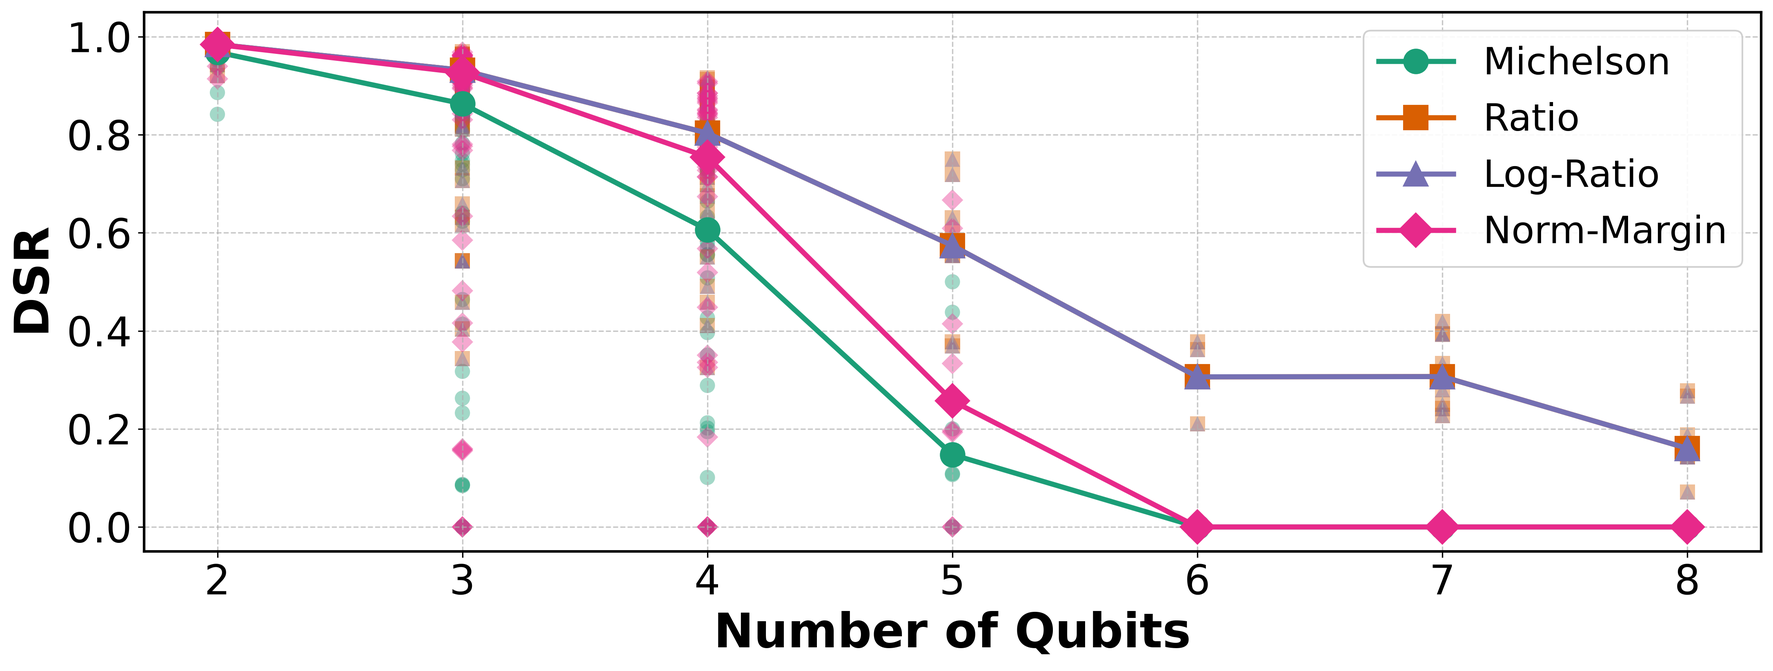
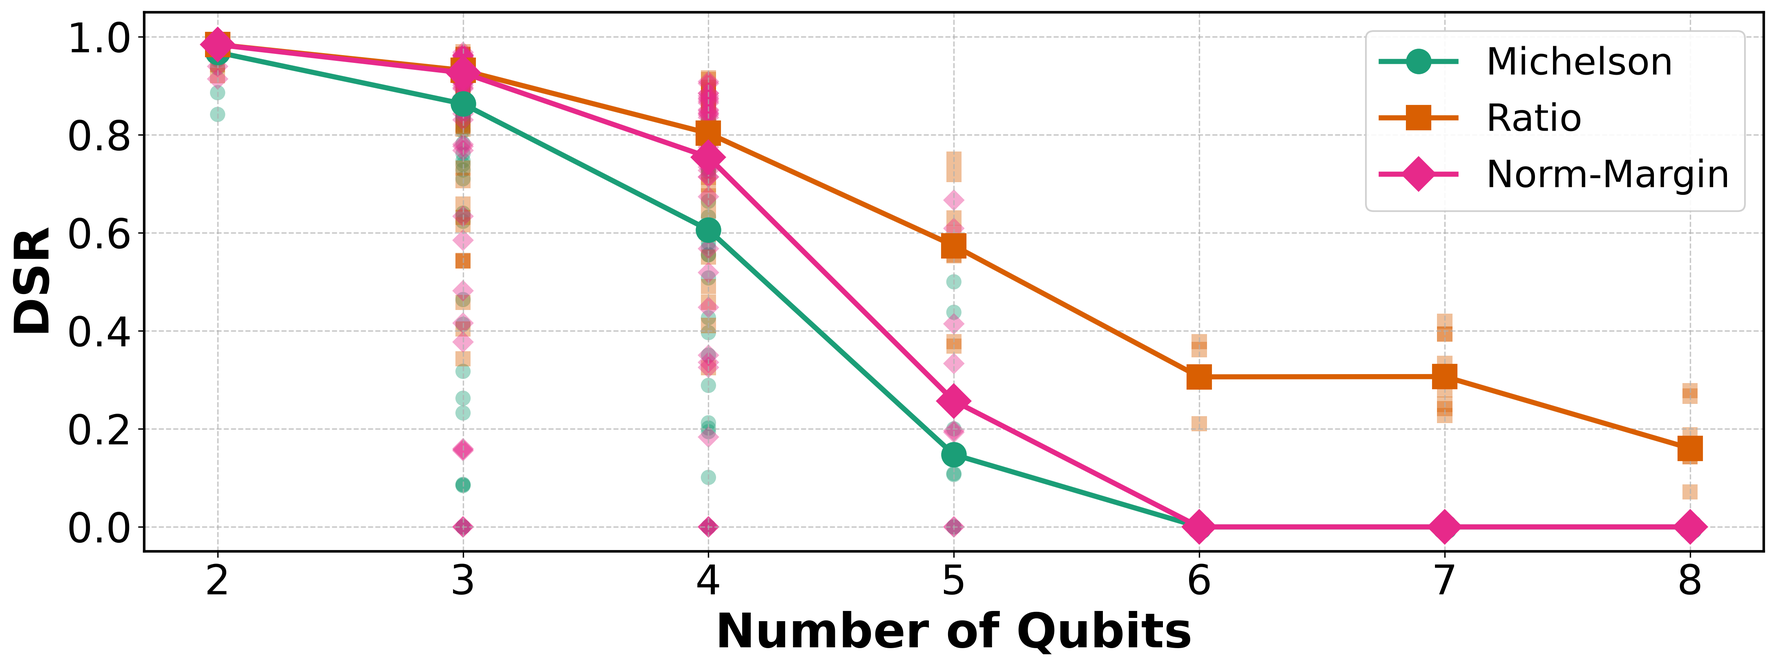
Remove log-ratio DSR variant and update paper draft accordingly
- Drop the Log-Ratio DSR formulation from the Springer paper draft because it is algebraically equivalent to the Ratio variant.
- Update the variant table, equations, discussion, and Grover figure caption to reflect only Michelson, Ratio, and Norm-Margin.
- In `differential_success_rate_analysis.py`, remove Log-Ratio from plotting, add per-variant marker mapping, and regenerate the Grover DSR variants plot.
- Add a label to the Hellinger Fidelity subsection and tighten related PST/TVD wording.

diff --git a/qward/examples/papers/main-springer.tex b/qward/examples/papers/main-springer.tex
@@ -146,9 +146,9 @@ Probability of successful trials (PST) \cite{mohapatraBenchmarkingFidelityMetric
 
 The main limitation of PST is that its definition modifies the structure of the original circuit. Since calculating PST requires the circuit and its inverse, the total depth of the circuit is doubled, thereby amplifying the impact of errors. In addition, standard PST employs a binary classification for success; because it only checks if the output matches the expected initial state (e.g., an all-zero output), an outcome with a single bit-flip error is penalized in the exact same way as one in which every bit is corrupted.
 
-PST can also avoid constructing a broad ideal output distribution before applying a fidelity-like score. However, it is important to note that PST evaluations are focused on the success of the operation $U^{\dagger}U$, they do not evaluate the agreement between the measured and ideal output of ~$U$. It additionally increases the complexity of the circuit by incorporating the inverse operation, and it also employs an all-zero target state, which can be susceptible to the qubits relaxation process. This strategy is therefore useful as a validation technique, but does not replace direct analysis of the quantum program result.
+PST can also avoid constructing a broad ideal output distribution before applying a fidelity-like score. However, it is important to note that PST evaluations are focused on the success of the operation $U^{\dagger}U$, they do not evaluate the agreement between the measured and ideal output of ~$U$. The all-zero target state can also be susceptible to the qubits relaxation process. This strategy is therefore useful as a validation technique, but does not replace direct analysis of the quantum program result.
 
-\subsection{Hellinger Fidelity}
+\subsection{Hellinger Fidelity}\label{sec:hellinger-fidelity}
 
 Hellinger fidelity (HF) is a metric recommended for algorithms like the Quantum Approximate Optimization Algorithm (QAOA) \cite{zhouQuantumApproximateOptimization_2020}, where the ideal solution is a probability distribution spread over many different basis states. HF is calculated by comparing the expected distribution with the returned outcome distribution, returning a 1 if both are identical or 0 if there is no overlap.
 
@@ -158,7 +158,7 @@ The major limitation of HF \cite{mohapatraBenchmarkingFidelityMetrics_2025} lies
 
 The total variation distance (TVD) \cite{knillBoundsApproximationTotal_1995, bhattacharyyaApproximatingTotalVariation_2023} is a metric that shares similarities with HF. Both metrics are particularly suitable for algorithms whose ideal output is a probability distribution with values spread over many states. What makes TVD unique is its mathematical approach to histogram comparison, which is defined as half the sum of the absolute differences between the corresponding probabilities. By definition, a TVD value of 0 indicates identical distributions, while a value of 1 means completely different. However, for consistency with other fidelity metrics, TVD is often reported as $TVDF = 1 - TVD$.
 
-Similarly, TVD shares the limitations of HF: a high computational overhead due to the need to estimate the ideal probability distribution, a limited sensitivity to errors in circuits whose ideal output is concentrated on a small number of dominant states, and a fundamental inability to capture information about phase-related errors.
+Similarly, TVD shares the limitations of HF described in Section~\ref{sec:hellinger-fidelity} regarding the ideal reference distribution, sensitivity to errors, and phase information.
 
 These limitations motivate direct evaluation of target distinction for quantum jobs with known expected outcomes.
 
@@ -239,7 +239,7 @@ DSR is therefore a continuous score rather than a binary metric. Equation~\eqref
 
 \subsection{Alternative formulations}
 
-Beyond the Michelson expression provided in Equation~\eqref{eq:dsr}, we analyzed three additional contrast functions using the collected data set (refer to Section~\ref{subsec:experiment} for details). The goal was to benchmark all formulations to ultimately identify the most suitable option. Table~\ref{tab:dsr_variants} reports the candidate formulations considered.
+Beyond the Michelson expression provided in Equation~\eqref{eq:dsr}, we analyzed two additional contrast functions using the collected data set (refer to Section~\ref{subsec:experiment} for details). The goal was to benchmark all formulations to ultimately identify the most suitable option. Table~\ref{tab:dsr_variants} reports the candidate formulations considered.
 
 %% Table: DSR variant formulations
 \begin{table}
@@ -250,7 +250,6 @@ Beyond the Michelson expression provided in Equation~\eqref{eq:dsr}, we analyzed
 \midrule
 Michelson       & Eq.~\eqref{eq:dsr}       & $[0,\,1]$ \\
 Ratio           & Eq.~\eqref{eq:dsr_ratio}  & $[0,\,1]$ \\
-Log-Ratio       & Eq.~\eqref{eq:dsr_log}    & $[0,\,1]$ \\
 Norm-Margin     & Eq.~\eqref{eq:dsr_nm}     & $[0,\,1]$ \\
 \botrule
 \end{tabular}
@@ -264,16 +263,6 @@ The \emph{ratio} variant normalizes the expected probability by the total probab
 \frac{\bar{p}_{\text{exp}}}
      {\bar{p}_{\text{exp}} + p_{\text{comp}}},\; 0,\; 1\right)
 \end{equation}
-
-The \emph{log-ratio} variant applies a sigmoid function $\sigma(z)=1/(1+e^{-z})$ to the logarithmic ratio of the two peaks, mapping the result to the interval $[0,1]$:
-
-\begin{equation}
-\label{eq:dsr_log}
-\mathrm{DSR}_{\text{log}} = \mathrm{clip}\!\left(
-\sigma\!\left(\ln \frac{\bar{p}_{\text{exp}}}{p_{\text{comp}}}\right),\; 0,\; 1\right)
-\end{equation}
-
-For zero-valued peaks, we use the continuous limits of Equation~\eqref{eq:dsr_log}. The log-ratio variant is assigned 0 when $\bar{p}_{\mathrm{exp}}=0$ and $p_{\mathrm{comp}}>0$, and 1 when $\bar{p}_{\mathrm{exp}}>0$ and $p_{\mathrm{comp}}=0$. The invalid case in which both values are zero follows the convention established for DSR and is reported as 0.
 
 The \emph{normalized margin} variant divides the difference between the two peaks by the larger of the two:
 
@@ -291,11 +280,11 @@ The \emph{normalized margin} variant divides the difference between the two peak
 \caption{DSR variants for the Grover algorithm as a function of the number of qubits (IBM backends).}\label{fig:dsr_variants}
 \end{figure}
 
-Figure~\ref{fig:dsr_variants} reports the median DSR of each variant for Grover's algorithm as a function of the number of qubits, using the highest level of transpilation optimization. Grover is shown because its wide qubit range (2--8) best illustrates the discriminative differences among formulations.
+Figure~\ref{fig:dsr_variants} reports the median DSR of each variant for Grover's algorithm as a function of the number of qubits, across all transpilation optimization levels. Grover is shown because its wide qubit range (2--8) best illustrates the differences among formulations.
 
-Both the Michelson (teal line) and the normalized-margin (pink line) variants decrease monotonically and reach~$0$ at six qubits; however, Michelson drops more sharply in the $3$--$5$ qubit range, providing an earlier indication of performance degradation. The log-ratio (purple line) and ratio (orange line) variants exhibit a slower decline and still report values of approximately $0.2$--$0.4$ at six to eight qubits, where the expected outcome no longer stands out in the histogram. This behavior fails to expose the distinction boundary and reduces the ability of the score to differentiate the peak separation from complete loss of the expected outcome.
+Both the Michelson (teal line) and the normalized-margin (pink line) variants decrease monotonically and reach~$0$ at six qubits; however, Michelson reports lower scores in the $3$--$5$ qubit range. Both formulations share the distinction boundary defined in Equation~\eqref{eq:dsr_boundary}. The ratio (orange line) variant exhibits a slower decline and still reports values of approximately $0.16$--$0.31$ at six to eight qubits, where the expected outcome no longer stands out in the histogram. In this formulation, equal expected and competing peaks produce a score of~$0.5$, rather than~$0$.
 
-Based on this analysis, we select the Michelson formulation to compute the DSR. In summary, the Michelson formulation is defined in the interval $[0,1]$ and is the first variant to indicate loss of expected-outcome distinction, making its zero boundary directly interpretable.
+Based on this analysis, we select the Michelson formulation to compute the DSR. In summary, the Michelson formulation expresses the difference between the expected and competing peaks relative to their sum, returning a score in $[0,1]$ with a directly interpretable zero boundary.
 
 \section{Experiment setup}\label{subsec:experiment}
 
@@ -305,7 +294,7 @@ To test Grover's search algorithm, we created different configurations of the ci
 
 To evaluate the QFT algorithm, we set the algorithm in two ways. In the first case, \emph{round-trip} mode, the circuit applies the QFT followed by its inverse, so that a correct execution returns the original input state (similar to what we describe in Section~\ref{sec:density-matrix}). In the second configuration, \emph{period-detection} mode, the circuit encodes a signal with a known period~$p$ on $n$~qubits and then applies the QFT. The transform reveals the frequency content of the signal, producing peaks at the positions $k \cdot N/p$ for $k = 0, 1, \ldots, p{-}1$, where $N = 2^n$.
 
-To evaluate BV, we used alternating secret strings with the bit pattern $1010\ldots$ and determined whether the measured query register returned the expected string. The study included a scalability ladder from 2 to 14~query qubits and three larger configurations of 29, 30, and 31~query qubits.
+To evaluate BV, we used alternating secret strings with the bit pattern $1010\ldots$ and determined whether the measured query register returned the expected string.
 
 We additionally designed the BVsb experiment to evaluate a multi-target circuit whose ideal output is not a delta distribution. The circuit assigns an ideal probability mass of~$0.90$ to two analytically known basis states and the remaining~$0.10$ to a broad, non-uniform background. A branch qubit is measured during execution, and a classically controlled block applies the background operations when the measured branch value is one. This construction keeps the expected set~$E$ analytically available to DSR while requiring the broad ideal distribution for exact HF and TVDF.
 
@@ -337,9 +326,9 @@ BVsb & Signal-background experiment & BVSB27--BVSB29 & $n_{\mathrm{tot}}=27$--$2
 \end{tabular}
 \end{table}
 
-For the Grover algorithm, the \emph{scalability} study (S2--S14) uses a single marked state while growing the number of qubits from 2 to 14, expanding the bit-length of the marked state (e.g., $\ket{01}$ for 2~qubits, $\ket{0110}$ for 4~qubits, $\ket{01100110}$ for 8~qubits). The \emph{marked-count} study (M3, M4) fixes the number of qubits at 3 and 4, respectively, and varies the number of marked states (1, 2, and 4) in order to assess whether the size of~$E$ influences the score. The \emph{Hamming-weight} study (H3, H4) varies the Hamming weight (i.e., the number of ones) of the marked state for 3- and 4-qubit systems. Finally, the \emph{symmetry} study (SYM, ASYM) fixes the number of qubits to 3 and evaluates whether the symmetry of the marked states affects the output.
+For the Grover algorithm, the \emph{scalability} study (S2--S14) uses a single marked state while growing the number of qubits, expanding the bit-length of the marked state (e.g., $\ket{01}$ for 2~qubits, $\ket{0110}$ for 4~qubits, $\ket{01100110}$ for 8~qubits). The \emph{marked-count} study (M3, M4) fixes the number of qubits at 3 and 4, respectively, and varies the number of marked states (1, 2, and 4) in order to assess whether the size of~$E$ influences the score. The \emph{Hamming-weight} study (H3, H4) varies the Hamming weight (i.e., the number of ones) of the marked state for 3- and 4-qubit systems. Finally, the \emph{symmetry} study (SYM, ASYM) fixes the number of qubits to 3 and evaluates whether the symmetry of the marked states affects the output.
 
-For the QFT algorithm, the \emph{round-trip scalability} study (SR2--SR10) grows the register from~2 to~10 qubits, extending the input state (e.g., $\ket{01}$ for 2~qubits, $\ket{0110}$ for 4~qubits, $\ket{01100110}$ for 8~qubits). The \emph{period-detection scalability} study (SP3--SP6) increases the qubit count from~3 to~6 while fixing the period, so that the number of possible output states grows, but the number of expected peaks remains constant. The \emph{period-variation} study (PV4, PV6) does the opposite, fixing the qubit count at~4 or~6 and varying the period, which increases the number of expected peaks and makes them harder to resolve. The \emph{input-variation} study (IV4) fixes the qubit count at~4 in round-trip mode and tests five different input states ($\ket{0000}$, $\ket{1111}$, $\ket{0101}$, $\ket{1010}$, $\ket{0001}$).
+For the QFT algorithm, the \emph{round-trip scalability} study (SR2--SR10) grows the register from~2 to~10 qubits, extending the input state with the same bit pattern used for Grover. The \emph{period-detection scalability} study (SP3--SP6) increases the qubit count while fixing the period, so that the number of possible output states grows, but the number of expected peaks remains constant. The \emph{period-variation} study (PV4, PV6) does the opposite, fixing the qubit count at~4 or~6 and varying the period, which increases the number of expected peaks and makes them harder to resolve. The \emph{input-variation} study (IV4) fixes the qubit count at~4 in round-trip mode and tests five different input states ($\ket{0000}$, $\ket{1111}$, $\ket{0101}$, $\ket{1010}$, $\ket{0001}$).
 
 For BV, the \emph{alternating-secret scalability} study grew the alternating secret string from 2 to 14~query qubits. The \emph{large alternating-secret} study used the same pattern at 29, 30, and 31~query qubits, each with one additional ancilla, to evaluate DSR beyond the dense statevector simulation limit of the experiment machine. The BVsb experiment used 27, 28, and 29 total qubits, corresponding to 26, 27, and 28 measured qubits, respectively. Each configuration retained two analytically specified expected outcomes while increasing the size of the broad ideal distribution.
 
@@ -383,7 +372,7 @@ Finally, as reported in our previous study \cite{vTPMarquez_2026}, vTP achieves 
 
 \subsection{DSR versus depth}\label{subsec:dsr_depth}
 
-Figures~\ref{fig:combined_depth_ibm} and~\ref{fig:combined_depth_aws} present the DSR distribution grouped by circuit depth bins of 100~gates on IBM and Rigetti, respectively. To define the bins in these plots, we use all optimization levels for IBM, because the data spans a wide range of circuit depths and the final transpiled circuits change with the optimization. Therefore, to properly capture the DSR degradation, we chose to include all available IBM data.
+Figures~\ref{fig:combined_depth_ibm} and~\ref{fig:combined_depth_aws} present the DSR distribution grouped by circuit depth bins of 100~gates on IBM and Rigetti, respectively. We use all optimization levels for IBM to capture the range of depths produced by the transpiled circuits.
 
 %% Figure: combined DSR vs depth (IBM)
 \begin{figure}[ht]
@@ -420,7 +409,7 @@ Figure~\ref{fig:qft_heatmap} displays a heatmap of the median DSR of QFT executi
 \caption{Heatmap of median DSR of QFT runs by number of qubits and optimization level (IBM backends). Darker green indicates higher DSR.}\label{fig:qft_heatmap}
 \end{figure}
 
-At the optimization level~0, the median DSR is low from 2~qubits ($0.38$) and collapses to near zero by 5--6~qubits. At level~1, the DSR improves substantially (e.g., $0.89$ at 3~qubits), but still degrades to~$0.18$ at 10~qubits. The behavior of levels 0 and 1 of optimization is consistent with the expected error accumulation output degradation. The DSR therefore displays lower values as more operations introduce sufficient error to degrade the expected output.
+At the optimization level~0, the median DSR is low from 2~qubits ($0.38$) and collapses to near zero by 5--6~qubits. At level~1, the DSR improves substantially (e.g., $0.89$ at 3~qubits), but still degrades to~$0.18$ at 10~qubits. This behavior is consistent with output degradation due to error accumulation.
 
 Levels~2 and~3 exhibit comparable performance, with DSR values above~$0.80$ up to 5~qubits and a gradual decline afterward. The difference between them is small (e.g. $0.56$ vs. \ $0.51$ at 6~qubits), suggesting that the level~3 of optimization provides only a marginal improvement over the level~2.
 
@@ -430,7 +419,7 @@ The heatmap also reveals an anomaly at the optimization level~0 for 7--8~qubits,
 
 To position DSR relative to existing fidelity metrics, we calculated HF and TVDF ($1-\mathrm{TVD}$) for QPU runs within simulator capacity. In general, both metrics require an ideal outcome histogram. Our pipeline obtained this histogram through a dense statevector simulation by computing the corresponding probability vector. On the Apple~M3~Pro laptop with 18 GB of unified memory used for the experiment, this procedure exhausted the available memory after completing the 26-qubit simulation. This boundary is specific to experimental conditions; analytic methods, tensor networks, or machines with more memory may extend it. Consequently, our experiment pipeline could not compute HF or TVDF beyond 26 qubits, whereas DSR remained computable under the information requirements defined in Section~\ref{sec:dsr}.
 
-Figures~\ref{fig:grover_metric_comparison} and~\ref{fig:grover_metric_comparison_aws} present the three metrics side by side as a function of the number of qubits for Grover on the IBM and Rigetti backends, respectively.\footnote{The vTP results are excluded from this comparison because its DSR drops to ~$0.00$ by 2~payload qubits, leaving insufficient data for a meaningful cross-metric analysis at the qubit counts where Grover and QFT still exhibit differentiated behavior.} Figure~\ref{fig:bv_metric_comparison} shows the alternating secret BV configurations on IBM backends at optimization level~3. HF and TVDF were computed using dense statevector simulation for the scalability study ($n\leq 14$), but the full ideal distributions were not generated for the larger configurations ($n=29$, $30$, and~$31$; total qubits~$n{+}1$). BV configurations between $n=15$ and~$28$ were not evaluated.
+Figures~\ref{fig:grover_metric_comparison} and~\ref{fig:grover_metric_comparison_aws} present the three metrics side by side as a function of the number of qubits for Grover on the IBM and Rigetti backends, respectively.\footnote{The vTP results are excluded from this comparison because its DSR drops to ~$0.00$ by 2~payload qubits, leaving insufficient data for a meaningful cross-metric analysis at the qubit counts where Grover and QFT still exhibit differentiated behavior.} Figure~\ref{fig:bv_metric_comparison} shows the alternating secret BV configurations on IBM backends at optimization level~3. HF and TVDF were computed for the scalability study ($n\leq 14$). BV configurations between $n=15$ and~$28$ were not evaluated.
 
 Because the BV comparison also includes the raw success rate, we first define this baseline. The success rate measures the fraction of shots whose outcomes belong to the expected set~$E$. Using the histogram $\mathcal{C}$ and the total number of shots~$S$, it is defined as
 
@@ -485,7 +474,7 @@ For Grover on IBM (Figure~\ref{fig:grover_metric_comparison}), all three metrics
 \caption{Comparison of DSR (teal), success rate (pink), HF (orange), and TVDF (purple) across alternating secret BV configurations executed on IBM backends.}\label{fig:bv_metric_comparison}
 \end{figure}
 
-For BV on IBM (Figure~\ref{fig:bv_metric_comparison}), the metrics remain close to their upper bounds for $n \leq 6$ (median DSR~$\approx 0.90$--$0.97$), with narrow interquartile ranges. This behavior emerges because the shallow alternating secret circuits (transpiled depth~$\approx 13$--$15$) concentrate the majority of measurement shots on the expected output bitstring---for $n=2$, for example, the success probability is~$\approx 0.98$. Beginning at $n=7$, the dispersion increases, while the success rate decreases; HF and TVDF decline faster than DSR while the expected peak continues to be modal. Beyond the dense statevector simulation limit (dashed line; $\approx$26~total qubits in this experiment), the figure reports DSR and raw success rate for $n=29$, $30$, and~$31$. HF and TVDF are omitted because the full ideal distributions were not generated, even though Equations~\eqref{eq:hf_bv} and~\eqref{eq:tvdf_bv} permit their analytic recovery for these single target jobs. BV configurations were not evaluated from $n=15$ to~$n=28$.
+For BV on IBM (Figure~\ref{fig:bv_metric_comparison}), the metrics remain close to their upper bounds for $n \leq 6$ (median DSR~$\approx 0.90$--$0.97$), with narrow interquartile ranges. This behavior emerges because the shallow alternating secret circuits (transpiled depth~$\approx 13$--$15$) concentrate the majority of measurement shots on the expected output bitstring---for $n=2$, for example, the success probability is~$\approx 0.98$. Beginning at $n=7$, the dispersion increases, while the success rate decreases; HF and TVDF decline faster than DSR while the expected peak continues to be modal. Beyond the dense statevector simulation limit (dashed line), the figure reports DSR and raw success rate for $n=29$, $30$, and~$31$. HF and TVDF are omitted because the full ideal distributions were not generated, even though Equations~\eqref{eq:hf_bv} and~\eqref{eq:tvdf_bv} permit their analytic recovery for these single target jobs.
 
 For the $n=29$ configuration of the BV algorithm, the expected state is the most frequent outcome in all nine runs of 1{,}024 shots, despite a success rate of only $8.8\%$--$14.5\%$ (median $11.1\%$). DSR ranges from~$0.58$ to~$0.78$, with a median of~$0.62$, because the expected state is 4--8 times more frequent than its strongest competitor. Across all jobs, the expected state represents $11.4\%$ of the shots, while no competitor exceeds $2.1\%$.
 
@@ -539,9 +528,9 @@ For the 27--29-qubit QPU configurations, the expected set remains analytically k
 
 As shown in Table~\ref{tab:bv_signal_background}, the mean success rate decreases from~$0.73\%$ at 27 total qubits to~$0.10\%$ at $29$ total qubits. These non-zero values indicate that some shots reach the expected set, but they do not establish that the two expected states stand out from the competing outcomes. DSR is positive in only one of the $30$ jobs, with a value of~$0.20$ at $27$ total qubits. In that job, the expected state count is $15$, compared to a mean of~$6.67$ across the other jobs. At the same time, the strongest competitor receives $5$ shots, compared to a mean of~$7.44$ in the other jobs. All $10$ jobs share the same transpiled circuit and recorded calibration snapshot. In the positive job, the branch qubit selected the signal path in $90.1\%$ of the shots, close to the intended $90\%$, and the number of distinct outcomes remained close to the batch values. No recorded execution condition therefore explains the difference. Because the second expected state remains absent, the positive score is best interpreted as a joint finite-shot fluctuation near the DSR distinction boundary rather than a stable recovery of the target signal.
 
-Figure~\ref{fig:bv_signal_background_histogram} shows the 40 most frequent outcomes of this DSR~$=0.20$ job, ordered from highest to lowest shot count. Green identifies the observed expected target, pink identifies the strongest outcome outside the expected set, and gray identifies the remaining displayed competitors. The ellipsis indicates that the histogram continues beyond the displayed outcomes. The top 40 outcomes contain 129 shots; the remaining 858 observed outcomes contain 895 shots, giving the complete total of $129+895=1{,}024$ shots across 898 distinct outcomes. The second expected target received zero shots and therefore does not appear among the observed bars.
+Figure~\ref{fig:bv_signal_background_histogram} shows the 40 most frequent outcomes of this DSR~$=0.20$ job, ordered from highest to lowest shot count. The job contains 1{,}024 shots across 898 distinct outcomes, with 129 shots in the top 40. The second expected target received zero shots and therefore does not appear among the observed bars.
 
-The first expected target is the modal outcome with $15$ shots, whereas the second expected target receives no shots. Since the two expected outcomes have equal weight, their mean measured probability is
+The first expected target is the modal outcome with $15$ shots. Since the two expected outcomes have equal weight, their mean measured probability is
 \begin{equation}
     \bar{p}_{\text{exp}}
     = \frac{1}{2}\left(\frac{15}{1024}+\frac{0}{1024}\right)
@@ -557,16 +546,16 @@ The strongest competing outcome receives five shots, so $p_{\text{comp}}=5/1024\
     = 0.20.
 \end{equation}
 
-Thus, although one expected target is absent, the average expected peak remains above every individual competitor and produces a small positive DSR. The result also illustrates why the presence of the target alone is insufficient, since the expected outcomes must remain distinguishable from the strongest competing peak.
+Thus, although one expected target is absent, the average expected peak remains above every individual competitor and produces a small positive DSR.
 
 %% Figure: BVsb DSR=0.20 histogram (IBM)
 \begin{figure}[ht]
 \centering
 \includegraphics[width=0.9\textwidth]{plots/1_bv_signal_background_dsr_histogram_ibm.png}
-\caption{Top-40 outcome frequencies for the single BVsb job that scored $\mathrm{DSR}=0.20$ on \textit{ibm\_marrakesh} at 27 total qubits. The ellipsis denotes the remaining observed outcomes.}\label{fig:bv_signal_background_histogram}
+\caption{Top-40 outcome frequencies for the single BVsb job that scored $\mathrm{DSR}=0.20$ on \textit{ibm\_marrakesh} at 27 total qubits. Green identifies the observed expected target, pink the strongest competitor, and gray the remaining displayed outcomes. The ellipsis denotes the remaining observed outcomes.}\label{fig:bv_signal_background_histogram}
 \end{figure}
 
-For the smaller BVsb circuits, all metrics could be calculated and produced different values. For the configurations with 27, 28, and 29 total qubits, the mean percentages of shots selecting the zero branch were $90.6\%$, $90.2\%$, and $91.3\%$, respectively. Although this behavior is close to the intended $90\%$, DSR equals zero in 29 of the 30 jobs. DSR remained available, but the ideal background probabilities could not be generated by our simulation workflow. Therefore, these executions do not establish that DSR performs better than HF or TVDF.
+For the configurations with 27, 28, and 29 total qubits, the mean percentages of shots selecting the zero branch were $90.6\%$, $90.2\%$, and $91.3\%$, respectively. Although this behavior is close to the intended $90\%$, DSR equals zero in 29 of the 30 jobs. DSR remained available, but the ideal background probabilities could not be generated by our simulation workflow. Therefore, these executions do not establish that DSR performs better than HF or TVDF.
 
 \subsection{Cross-provider metric comparison}
 
@@ -579,9 +568,9 @@ For the smaller BVsb circuits, all metrics could be calculated and produced diff
 
 For Grover on Rigetti Ankaa-3 (Figure~\ref{fig:grover_metric_comparison_aws}), the three metrics agree at 2~qubits (medians above~$0.90$). However, at 3~qubits ($n=40$) the DSR falls to~$0.00$, while the HF retains a median of~$0.25$ and TVDF~$0.20$ ($p_{\text{corr}} < 0.001$; $\delta = -0.93$ and $-0.89$, respectively). The same pattern continues at 4~qubits, where DSR stays at~$0.00$ while HF reports~$0.25$, and TVDF~$0.15$ ($\delta = -1.00$ and $-0.84$). This discrepancy occurs because the noise level of Ankaa-3 causes the strongest competing peak to match the average probability of the expected outcomes ($\bar{p}_{\text{exp}}$), pushing the DSR to zero. In contrast, HF and TVDF, which evaluate the intersection of the probability distribution, still detect partial overlap.
 
-Comparing the two providers reveals that DSR exhibits a zero-boundary response associated with the noise level of the backend. In several IBM Heron~R2 jobs\footnote{IBM Quantum Platform, backend calibration data: \url{https://quantum.cloud.ibm.com/computers}. Accessed February 2026.}, where the two-qubit gate errors are approximately $2.6 \times 10^{-3}$ and readout errors $1.3 \times 10^{-2}$, DSR descriptively remains above HF and TVDF while the expected peaks dominate. In contrast, for Rigetti Ankaa-3\footnote{Rigetti Quantum Cloud Services, QPU specifications: \url{https://qcs.rigetti.com/qpus}. Accessed February 2026.}, where typical two-qubit gate errors are roughly twice as large ($5 \times 10^{-3}$) and readout errors reach $2 \times 10^{-2}$, DSR is the first metric to reach zero (Grover at 3~qubits: $\delta = -0.93$, $p_{\text{corr}} < 0.001$). These calibration values provide hardware context rather than a controlled causal explanation of the difference. The observed asymmetry is consistent with expected outcomes standing above the strongest competitor until this peak separation collapses and DSR reaches the distinction boundary at zero. In contrast, HF and TVDF, which are derived from distributional overlap, exhibit a more continuously declining performance profile.
+Comparing the two providers reveals that DSR exhibits a zero-boundary response associated with the noise level of the backend. In several IBM Heron~R2 jobs\footnote{IBM Quantum Platform, backend calibration data: \url{https://quantum.cloud.ibm.com/computers}. Accessed February 2026.}, where the two-qubit gate errors are approximately $2.6 \times 10^{-3}$ and readout errors $1.3 \times 10^{-2}$, DSR descriptively remains above HF and TVDF while the expected peaks dominate. In contrast, for Rigetti Ankaa-3\footnote{Rigetti Quantum Cloud Services, QPU specifications: \url{https://qcs.rigetti.com/qpus}. Accessed February 2026.}, where typical two-qubit gate errors are roughly twice as large ($5 \times 10^{-3}$) and readout errors reach $2 \times 10^{-2}$, DSR is the first metric to reach zero. These calibration values provide hardware context rather than a controlled causal explanation of the difference.
 
-The QFT results (Table~\ref{tab:stat_comparison}) exhibit the early collapse behavior observed in Grover. In IBM, the $4$ jobs at 5~qubits give a median DSR of~$0.82$ versus~$0.65$ for HF and TVDF, while the two jobs at 10~qubits give~$0.28$ versus~$0.13$. At 6~qubits, where eight jobs are available, the three metrics become comparable ($p_{\text{corr}} = 0.766$, $\delta = 0.00$). On the Rigetti platform, the QFT exhibits an early collapse analogous to that observed for Grover's algorithm. At 4 qubits ($n=25$), DSR falls to ~$0.00$, whereas HF and TVDF remain at~$0.29$ ($p_{\text{corr}} = 0.008$, $\delta = -0.45$). At 5 qubits, the discrepancy becomes even more pronounced ($p_{\text{corr}} = 0.003$, $\delta = -0.72$).
+The QFT results (Table~\ref{tab:stat_comparison}) exhibit the early collapse behavior observed in Grover. In IBM, the $4$ jobs at 5~qubits give a median DSR of~$0.82$ versus~$0.65$ for HF and TVDF, while the two jobs at 10~qubits give~$0.28$ versus~$0.13$. At 6~qubits, where eight jobs are available, the three metrics become comparable ($p_{\text{corr}} = 0.766$, $\delta = 0.00$). On the Rigetti platform, at 4 qubits ($n=25$), DSR falls to ~$0.00$, whereas HF and TVDF remain at~$0.29$ ($p_{\text{corr}} = 0.008$, $\delta = -0.45$). At 5 qubits, the discrepancy becomes even more pronounced ($p_{\text{corr}} = 0.003$, $\delta = -0.72$).
 
 %% Table: full statistical comparison (wide -> sidewaystable).
 %% This 12-column table is too wide for the single-column text block, so it is
@@ -644,7 +633,7 @@ The experimental results (Section~\ref{sec:results}) show that DSR characterizes
 
 In this paper, we introduce the Differential Success Rate (DSR), a score designed to assess the output of quantum algorithms. The DSR quantifies how distinctly a predefined set of expected outcomes stands out within the measurement histogram of a quantum job. To this end, the DSR adopts the Michelson contrast formulation to create a normalized score within the interval $[0, 1]$, indicating whether the expected outcomes dominate the strongest competing peak.
 
-In the initial part of this study, four different formulations are evaluated to identify the one that most clearly exposes the distinction boundary across quantum executions. The Michelson formulation is selected over the ratio, logarithmic ratio, and normalized margin methods because of its wider dynamic range and interpretable zero boundary.
+In the initial part of this study, three different formulations are evaluated to characterize their response across quantum executions. The Michelson formulation is selected over the ratio and normalized margin methods because it expresses expected-outcome distinction as a bounded contrast with an interpretable zero boundary.
 
 To empirically evaluate DSR, we computed it for 1{,}478 quantum jobs executed across multiple QPUs accessed through IBM Quantum and Rigetti via AWS. The workloads comprise Grover's search, QFT, BV, and vTP. The results show DSR scores above~$0.80$ for small circuits and a general decline as the size and complexity of the circuit increase. We also characterize the effect of circuit optimization and compare DSR with HF and TVDF. Standard BV shows how DSR distinguishes a dominant expected state from a low success rate. BVsb extends this result to outputs with multiple expected states and a broad background, where HF and TVDF require the complete ideal distribution. On the noisier Rigetti QPU, DSR is the first metric to reach zero once the expected outcomes no longer dominate their competitors, whereas HF and TVDF decline more gradually.
 

diff --git a/qward/examples/papers/differential_success_rate_analysis.py b/qward/examples/papers/differential_success_rate_analysis.py
@@ -30,7 +30,6 @@ from qward.utils.styles import (
     LEGEND_SIZE,
     FIG_SIZE,
     MARKER_SIZE,
-    MARKER_STYLES,
     apply_axes_defaults,
 )
 
@@ -45,9 +44,10 @@ FIG_SIZE_HEATMAP = (18, 14)
 DSR_VARIANT_COLORS = {
     "Michelson": COLORBREWER_PALETTE[1],  # Teal
     "Ratio": COLORBREWER_PALETTE[2],  # Orange
-    "Log-Ratio": COLORBREWER_PALETTE[3],  # Purple
     "Norm-Margin": COLORBREWER_PALETTE[4],  # Pink
 }
+
+DSR_VARIANT_MARKERS = {"Michelson": "o", "Ratio": "s", "Norm-Margin": "D"}
 
 # Algorithm colors for boxplots
 ALGORITHM_COLORS = {
@@ -93,10 +93,10 @@ DEPTH_DISPLAY_CAP_EXTRA_FINE = 150
 OUTLIER_DEPTH_THRESHOLD = 2000  # Depths above this
 OUTLIER_DSR_MAX = 0.5  # DSR values above this at high depth are filtered
 
+# Log-ratio is algebraically equivalent to Ratio, so omit it from paper comparisons.
 DSR_VARIANTS = [
     ("dsr_michelson", "Michelson", DSR_VARIANT_COLORS["Michelson"]),
     ("dsr_ratio", "Ratio", DSR_VARIANT_COLORS["Ratio"]),
-    ("dsr_log_ratio", "Log-Ratio", DSR_VARIANT_COLORS["Log-Ratio"]),
     ("dsr_normalized_margin", "Norm-Margin", DSR_VARIANT_COLORS["Norm-Margin"]),
 ]
 
@@ -604,7 +604,7 @@ def _plot_algorithm_line(
 
     fig, ax = plt.subplots(figsize=figsize or FIG_SIZE)
 
-    for idx, (variant_key, label, color) in enumerate(DSR_VARIANTS):
+    for variant_key, label, color in DSR_VARIANTS:
         # Get all points
         points = []
         for r in algo_rows:
@@ -619,7 +619,7 @@ def _plot_algorithm_line(
         xs, ys = zip(*points)
 
         # Scatter with transparency
-        marker = MARKER_STYLES.get(idx + 1, "o")
+        marker = DSR_VARIANT_MARKERS[label]
         ax.scatter(
             xs,
             ys,
